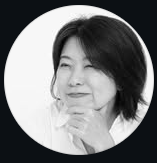
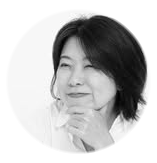
Remove Ishikawa portrait frame

diff --git a/index.html b/index.html
@@ -194,7 +194,7 @@
               <div class="speakers">
                 <div class="speaker">
                   <span class="speaker-label">講師</span>
-                  <img src="assets/ishikawa-kyoko.png" alt="石川京子氏">
+                  <img src="assets/ishikawa-kyoko.png?v=2" alt="石川京子氏">
                   <div>
                     <h4>石川 京子</h4>
                     <p>金沢市市民活動サポートセンター 外部アドバイザー（仮）</p>